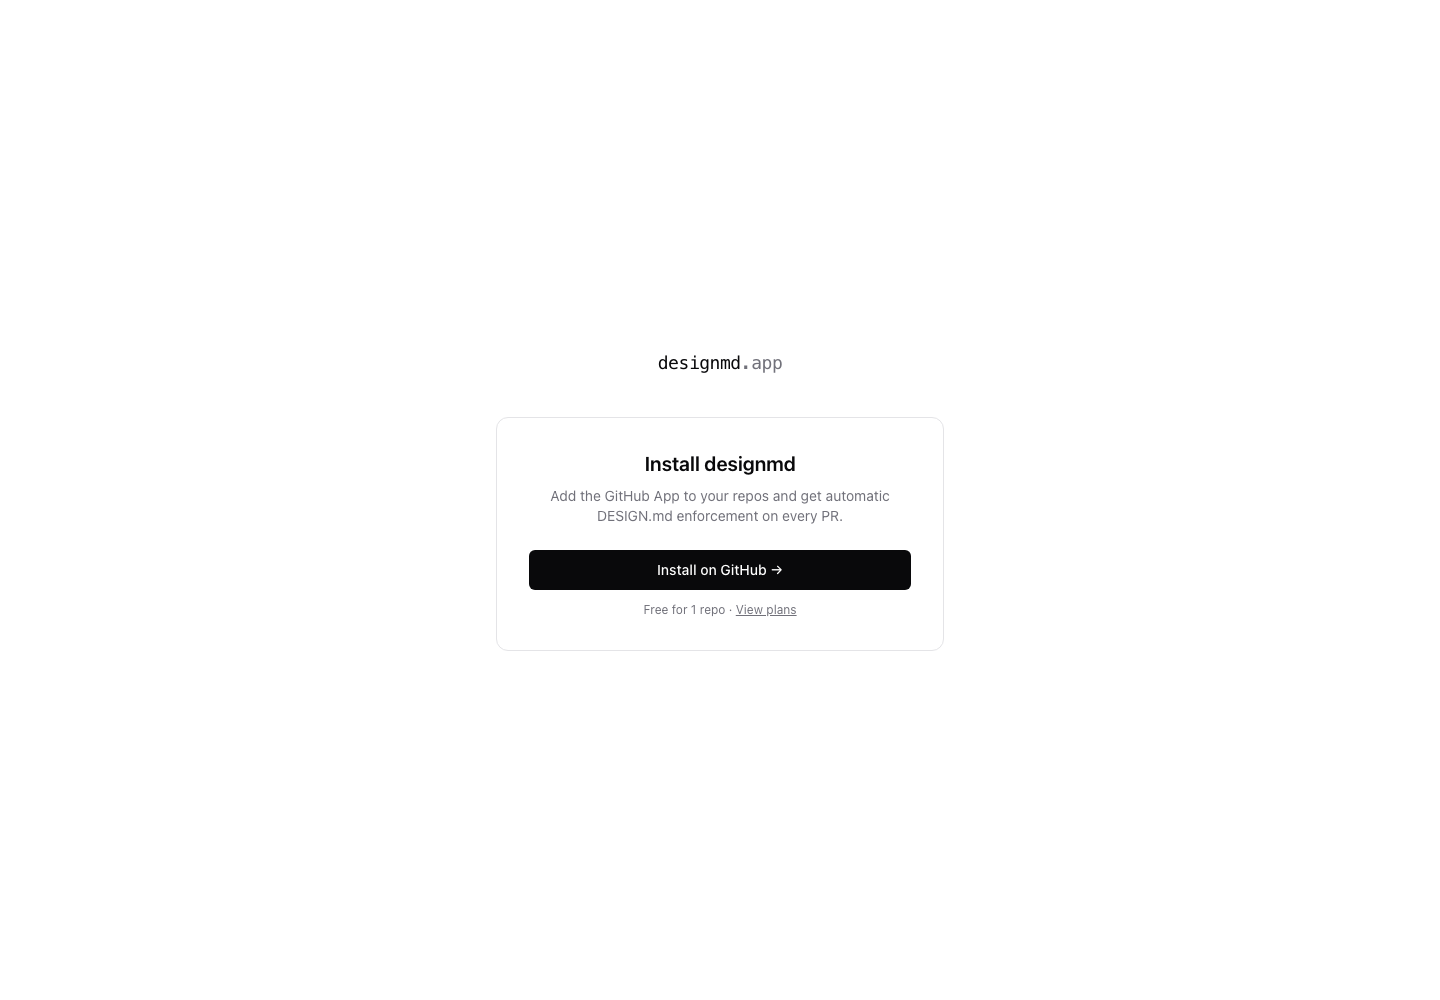
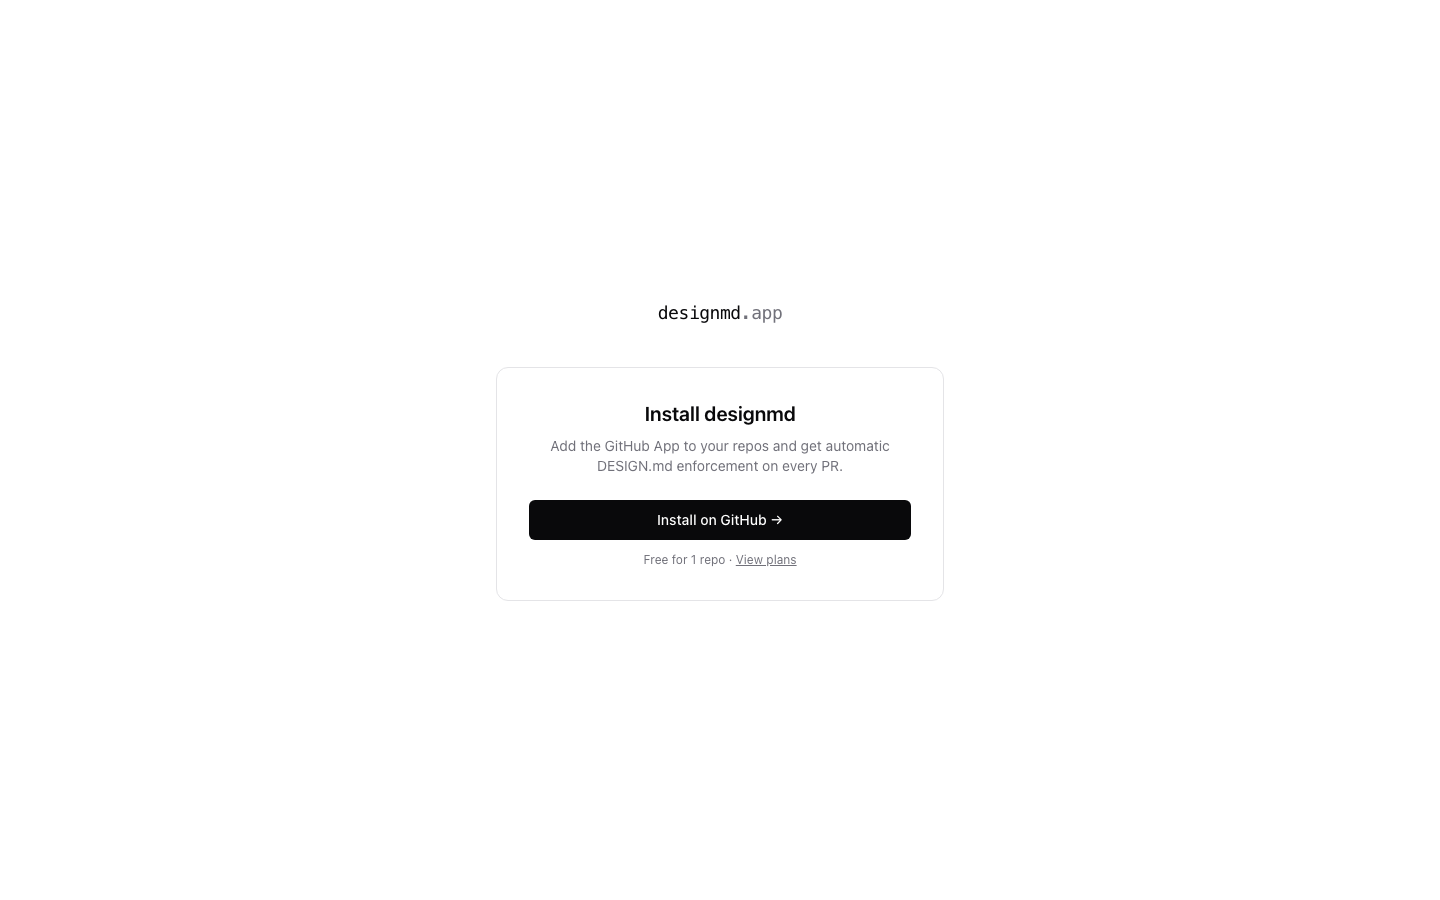
Replace screenshots with live production + public listing captures
Swaps the local-dev screenshots for captures of the actual deployed
app (driftgaurd.vercel.app) plus the app's public listings on the
VS Code Marketplace, GitHub Marketplace, and github.com/apps —
all real, live, and independently verifiable.

Changed region(s): [[0.375, 0.4356, 0.625, 0.6222], [0.4375, 0.3422, 0.5625, 0.3733]]

diff --git a/README.md b/README.md
@@ -14,11 +14,13 @@
 
 ## Screenshots
 
-**The check every PR gets** — this is the app's marketing page rendering the exact output of `buildPRComment()`, the same function that posts to real pull requests:
+Live captures from the production deployment and public listings — not mockups.
+
+**The check every PR gets** — the app's homepage rendering the exact output of `buildPRComment()`, the same function that posts to real pull requests:
 
 ![PR comment showing DESIGN.md lint findings](docs/screenshots/pr-comment-check.png)
 
-**Marketing homepage**, run locally via `npm run dev`:
+**Homepage** — [driftgaurd.vercel.app](https://driftgaurd.vercel.app):
 
 ![designmd marketing homepage](docs/screenshots/marketing-homepage.png)
 
@@ -26,7 +28,17 @@
 
 ![Install designmd page](docs/screenshots/install-page.png)
 
-*Captured from a local dev build (`npm run dev`) — the hosted production deployment sits behind Vercel's deployment protection, so these are pulled from the same source running locally rather than the live URL.*
+**Published on the VS Code Marketplace** — [driftgaurd.driftguard-vscode](https://marketplace.visualstudio.com/items?itemName=driftgaurd.driftguard-vscode):
+
+![DriftGuard VS Code extension listing on the Marketplace](docs/screenshots/vscode-marketplace-listing.png)
+
+**Published on GitHub Marketplace** — [github.com/marketplace/driftguard-app](https://github.com/marketplace/driftguard-app):
+
+![driftguard-app listing on GitHub Marketplace](docs/screenshots/github-marketplace-listing.png)
+
+**Public GitHub App listing** — [github.com/apps/driftguard-app](https://github.com/apps/driftguard-app):
+
+![driftguard-app public GitHub App page](docs/screenshots/github-app-listing.png)
 
 ---
 
